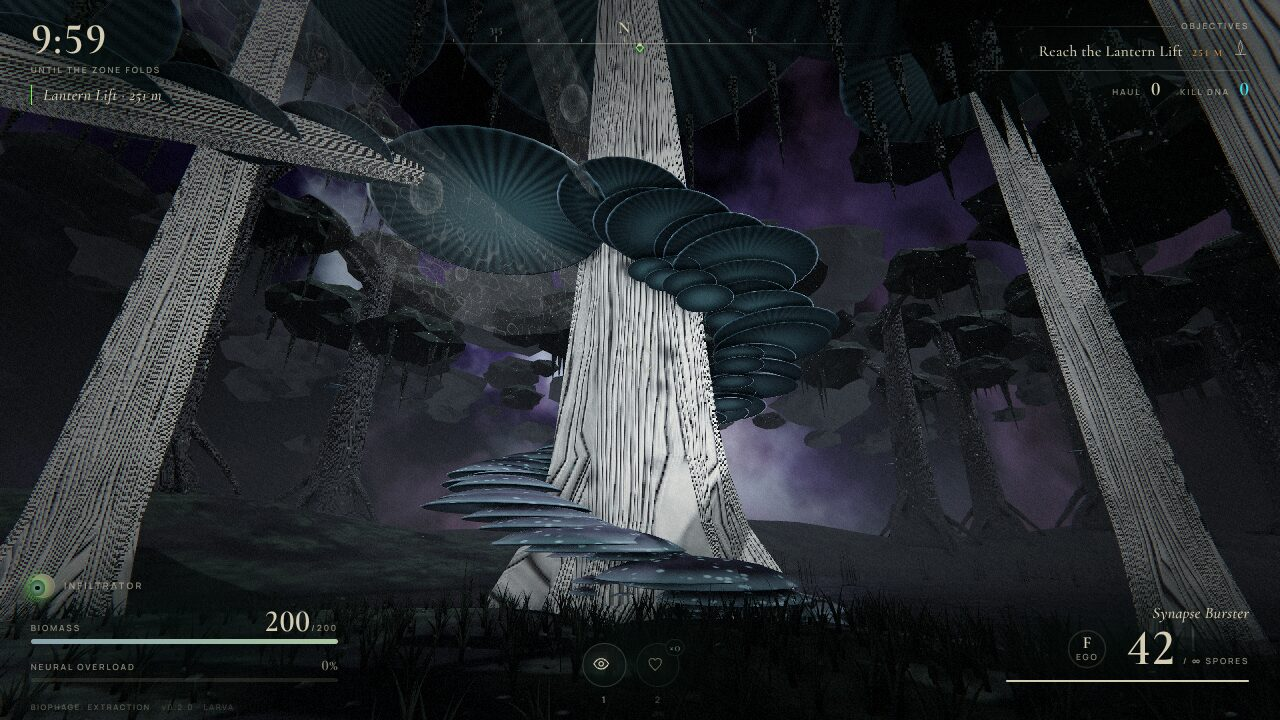
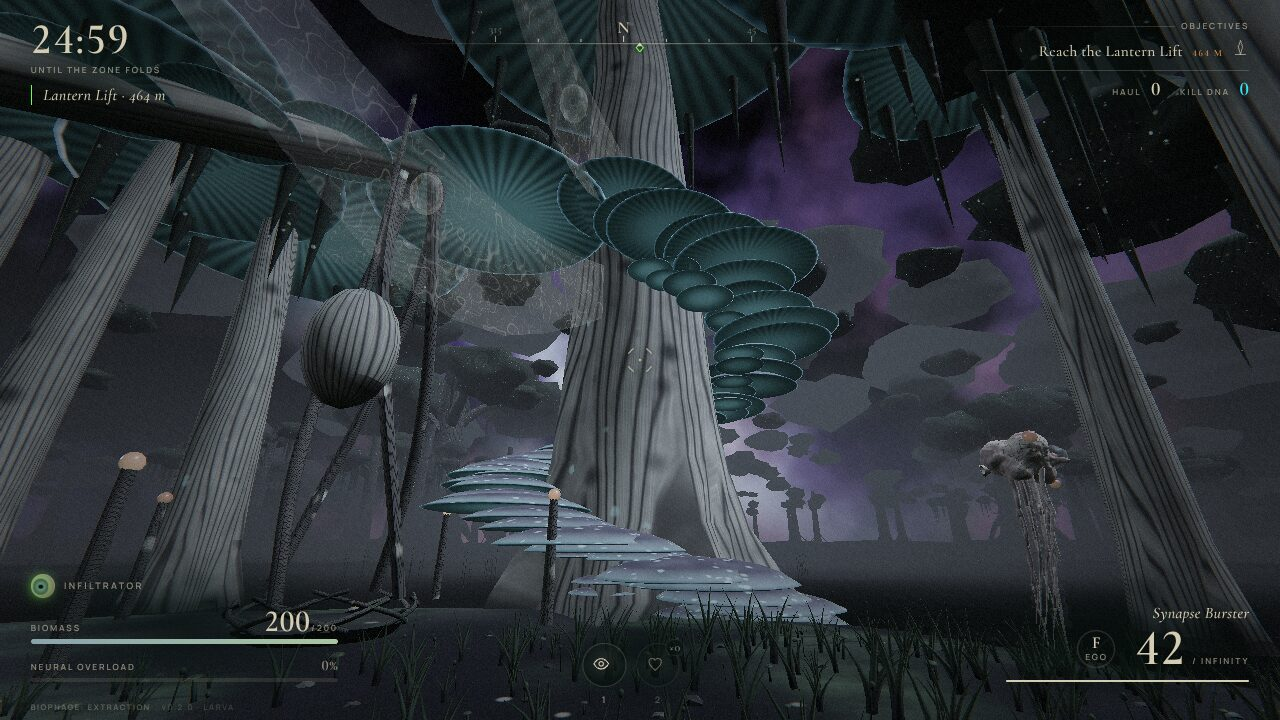
Weeping Fen: ready for the edge murk; calmer cathedral stalks; soft canopy
For Rendering's boundary murk: the ground and water run to 1.32 R; the
far wall of trees and the ambient mistwaders move past the curtains
(1.21 to 1.3 R) and grove canopies stay inside R - 16, so nothing pokes
through the 0.98 to 1.2 R band. Pale cap-tree stalks dimmed with broad,
low-contrast ridges (fenBark ridges and dim options) so they stop
glaring and shimmering at range. Canopy lumps are welded and shade soft
instead of faceted.

Claude-Session: https://claude.ai/code/session_01Y5Bov4Sf17Ztaq1LjiDfQm

diff --git a/src/world/weepingfen.ts b/src/world/weepingfen.ts
@@ -1,5 +1,5 @@
 import * as THREE from 'three';
-import { mergeGeometries } from 'three/examples/jsm/utils/BufferGeometryUtils.js';
+import { mergeGeometries, mergeVertices } from 'three/examples/jsm/utils/BufferGeometryUtils.js';
 import { HIVE, ORGANIC, ZONE7, ZONE7_SHADE } from '../render/palette';
 import { bioNode, bioTime, fungusCap, grownWall, membrane, zoneRock } from '../render/materials';
 import { capGeometry, noise3 } from '../render/geometry';
@@ -338,7 +338,7 @@ export function buildWeepingFen(scene: THREE.Scene, seed: number): FenWorld {
   scene.add(back);
 
   // ---- Ground and water.
-  const span = (FEN.radius + 80) * 2, segs = Math.round(span / 3);
+  const span = FEN.radius * 1.32 * 2, segs = Math.round(span / 3);
   const ground = new THREE.PlaneGeometry(span, span, segs, segs).rotateX(-Math.PI / 2);
   const gp = ground.attributes.position;
   for (let i = 0; i < gp.count; i++) gp.setY(i, fenHeight(gp.getX(i), gp.getZ(i)));
@@ -360,7 +360,8 @@ export function buildWeepingFen(scene: THREE.Scene, seed: number): FenWorld {
 
   // ---- Materials (three shader families of our own plus the zone's shared ones).
   const bark = fenBark({ base: ZONE7_SHADE.rock });
-  const paleBark = fenBark({ base: HIVE.bone, deep: ZONE7_SHADE.stem, mossy: 0.5 });
+  // Pale cap-tree stalks: bone-pale but dimmed and broad-ridged, so they read calm at range instead of glaring.
+  const paleBark = fenBark({ base: HIVE.bone, deep: ZONE7_SHADE.stem, mossy: 0.6, ridges: 3, dim: 0.28 });
   // Drowned ribs: finer plated, stained bone, a shade darker than the hut bone so they read old, not plastic.
   const ribBone = oldBone(ORGANIC.mist, 0.9);
   ribBone.color.multiplyScalar(0.7);
@@ -454,12 +455,15 @@ export function buildWeepingFen(scene: THREE.Scene, seed: number): FenWorld {
       ];
       batch.add(bark, taperedTube(pts, R * 0.3, R * 0.08, lite ? 6 : 12, lite ? 5 : 6));
       const bx = t.x + c * len, bz = t.z + sn * len, by = base + y + len * 0.45;
-      const blob = new THREE.IcosahedronGeometry(1, lite ? 1 : 2);
+      let blob: THREE.BufferGeometry = new THREE.IcosahedronGeometry(1, lite ? 1 : 2);
       const bp = blob.attributes.position;
       for (let i = 0; i < bp.count; i++) {
         const n = 0.6 + noise3(bp.getX(i) * 2.2 + s + k, bp.getY(i) * 2.2, bp.getZ(i) * 2.2) * 0.7;
         bp.setXYZ(i, bp.getX(i) * n, bp.getY(i) * n * 0.8, bp.getZ(i) * n);
       }
+      // Weld the shared corners so the lumps shade soft rather than faceted.
+      blob.deleteAttribute('normal'); blob.deleteAttribute('uv');
+      blob = mergeVertices(blob);
       blob.computeVertexNormals();
       const br = R * (1.3 + noise3(k, s, 14) * 0.8);
       batch.add(mossMass, blob, M4(bx, by, bz, a, br * 1.3, br, br * 1.3));
@@ -491,7 +495,7 @@ export function buildWeepingFen(scene: THREE.Scene, seed: number): FenWorld {
       const a = fixed() * Math.PI * 2, d = Math.sqrt(fixed()) * g.radius;
       const x = g.x + Math.cos(a) * d, z = g.z + Math.sin(a) * d;
       const R = g.caps ? 1.2 + fixed() * 1.1 : 1.1 + fixed() * 1.6;
-      if (Math.hypot(x, z) > FEN.radius - 8 || !clear(x, z, R * 2.2)) continue;
+      if (Math.hypot(x, z) > FEN.radius - 16 || !clear(x, z, R * 2.2)) continue; // canopies stay inside the edge murk
       keep.push({ x, z, r: R * 2.2 });
       tree({ x, z, radius: R, height: g.caps ? 22 + fixed() * 14 : 16 + R * 6 + fixed() * 6, roots: 4 + Math.floor(fixed() * 3) }, 100 + gi++ * 3.1, g.caps);
       placed++;
@@ -500,7 +504,7 @@ export function buildWeepingFen(scene: THREE.Scene, seed: number): FenWorld {
   // The wall of trunks beyond the walkable ring: dense, dark, half lost in fog.
   const wall = Math.round(FEN.radius * 0.32);
   for (let i = 0; i < wall; i++) {
-    const a = (i / wall) * Math.PI * 2 + fixed() * 0.1, d = FEN.radius + 8 + fixed() * 40;
+    const a = (i / wall) * Math.PI * 2 + fixed() * 0.1, d = FEN.radius * (1.21 + fixed() * 0.08); // past the edge murk's curtains (Rendering keeps 0.98-1.2 R clear)
     const R = 1.6 + fixed() * 2.6;
     tree({ x: Math.cos(a) * d, z: Math.sin(a) * d, radius: R, height: 22 + R * 6, roots: 5 }, 400 + i * 1.7, false, true);
   }

diff --git a/src/world/fenmaterials.ts b/src/world/fenmaterials.ts
@@ -25,14 +25,14 @@ const BARK_GLSL = /* glsl */ `
   // count of ridges per trunk) and run up the height; planks lay their grain along the board instead.
   vec3 nrm = normalize(vBioNormal);
   float ang = atan(nrm.z, nrm.x);
-  vec2 q = mix(vec2(ang * 7.0 + bioNoise(w * 0.15) * 2.0, w.y * 0.35), vec2(w.x + w.z, w.y) * 0.6, uPlank);
+  vec2 q = mix(vec2(ang * uRidges + bioNoise(w * 0.15) * 2.0, w.y * 0.35), vec2(w.x + w.z, w.y) * 0.6, uPlank);
   float wander = bioFbm(vec3(q.x * 0.6, q.y * 0.25, 3.0)) * 2.5;
   float ridge = abs(sin((q.x + wander) * 6.0));
   float fissure = 1.0 - smoothstep(0.0, 0.18, ridge);
   float fibre = bioNoise(vec3(q.x * 26.0, q.y * 2.0, 7.0));
   float knots = 1.0 - smoothstep(0.05, 0.22, bioCells(w * 0.35 + vBioSeed));
   float grain = bioFbm(w * 1.3);
-  vec3 col = mix(uDeep * 1.5 + uBase * 0.15, uBase * (0.85 + grain * 0.7), smoothstep(0.05, 0.6, ridge)) * (0.85 + fibre * 0.3);
+  vec3 col = mix(uDeep * 1.5 + uBase * 0.15, uBase * (0.85 + grain * 0.7), mix(0.7, smoothstep(0.05, 0.6, ridge), 0.45 + 0.55 * min(1.0, uRidges / 7.0))) * (0.85 + fibre * 0.3);
   col = mix(col, uDeep * 0.6, knots * 0.7);
   // Moss creeps up from the water and gathers on ledges and the tops of roots.
   float up = smoothstep(0.1, 0.8, vBioNormal.y);
@@ -46,6 +46,8 @@ const BARK_GLSL = /* glsl */ `
   // Wet tide band: the bottom of everything is dark and glossy where the water has soaked it.
   float wet = 1.0 - smoothstep(0.0, 0.9 + grain * 0.6, vBioWorld.y - uWaterY);
   col *= 1.0 - wet * 0.55;
+  // Broad, soft ridges (low uRidges) are also flattened toward their mean so pale trunks don't shimmer at range.
+  col = mix(vec3(dot(col, vec3(0.333))), col, 0.75 + 0.25 * min(1.0, uRidges / 7.0)) * uDim;
   diffuseColor.rgb = col;
   roughnessFactor = mix(0.92, 0.3, wet) - moss * 0.1;
   float relief = ridge * 0.7 + fibre * 0.15 - fissure * 0.5 + knots * 0.3 + moss * 0.25;
@@ -54,7 +56,7 @@ const BARK_GLSL = /* glsl */ `
   totalEmissiveRadiance = uGlow * lichen * step(0.8, bioHash(floor(w * 0.9 + 4.0))) * (0.6 + 0.4 * sin(bioTime * 0.7 + vBioSeed.y)) * 0.6;
 `;
 
-export interface BarkOptions { base?: string; deep?: string; plank?: boolean; mossy?: number; scale?: number }
+export interface BarkOptions { base?: string; deep?: string; plank?: boolean; mossy?: number; scale?: number; /** Ridges round a trunk (default 7); fewer reads calmer at range. */ ridges?: number; /** Brightness multiplier on the palette base (default 1). */ dim?: number }
 
 /** Bark for trunks and roots; `plank` lays the grain along the board (huts, decks, walkways). */
 export function fenBark(o: BarkOptions = {}): THREE.MeshStandardMaterial {
@@ -62,8 +64,9 @@ export function fenBark(o: BarkOptions = {}): THREE.MeshStandardMaterial {
     uniforms: {
       uBase: u(o.base ?? ZONE7_SHADE.stem), uDeep: u(o.deep ?? ZONE7_SHADE.rockDeep), uMoss: u(ZONE7_SHADE.moss), uLichen: u(HIVE.bone),
       uGlow: u(ZONE7.cyan), uPlank: { value: o.plank ? 1 : 0 }, uMossy: { value: o.mossy ?? 1 }, uScale: { value: o.scale ?? 1 }, uWaterY: { value: FEN_WATER_Y },
+      uRidges: { value: o.ridges ?? 7 }, uDim: { value: o.dim ?? 1 },
     },
-    declarations: 'uniform vec3 uBase, uDeep, uMoss, uLichen, uGlow; uniform float uPlank, uMossy, uScale, uWaterY;\n',
+    declarations: 'uniform vec3 uBase, uDeep, uMoss, uLichen, uGlow; uniform float uPlank, uMossy, uScale, uWaterY, uRidges, uDim;\n',
     fragment: BARK_GLSL,
   });
 }
